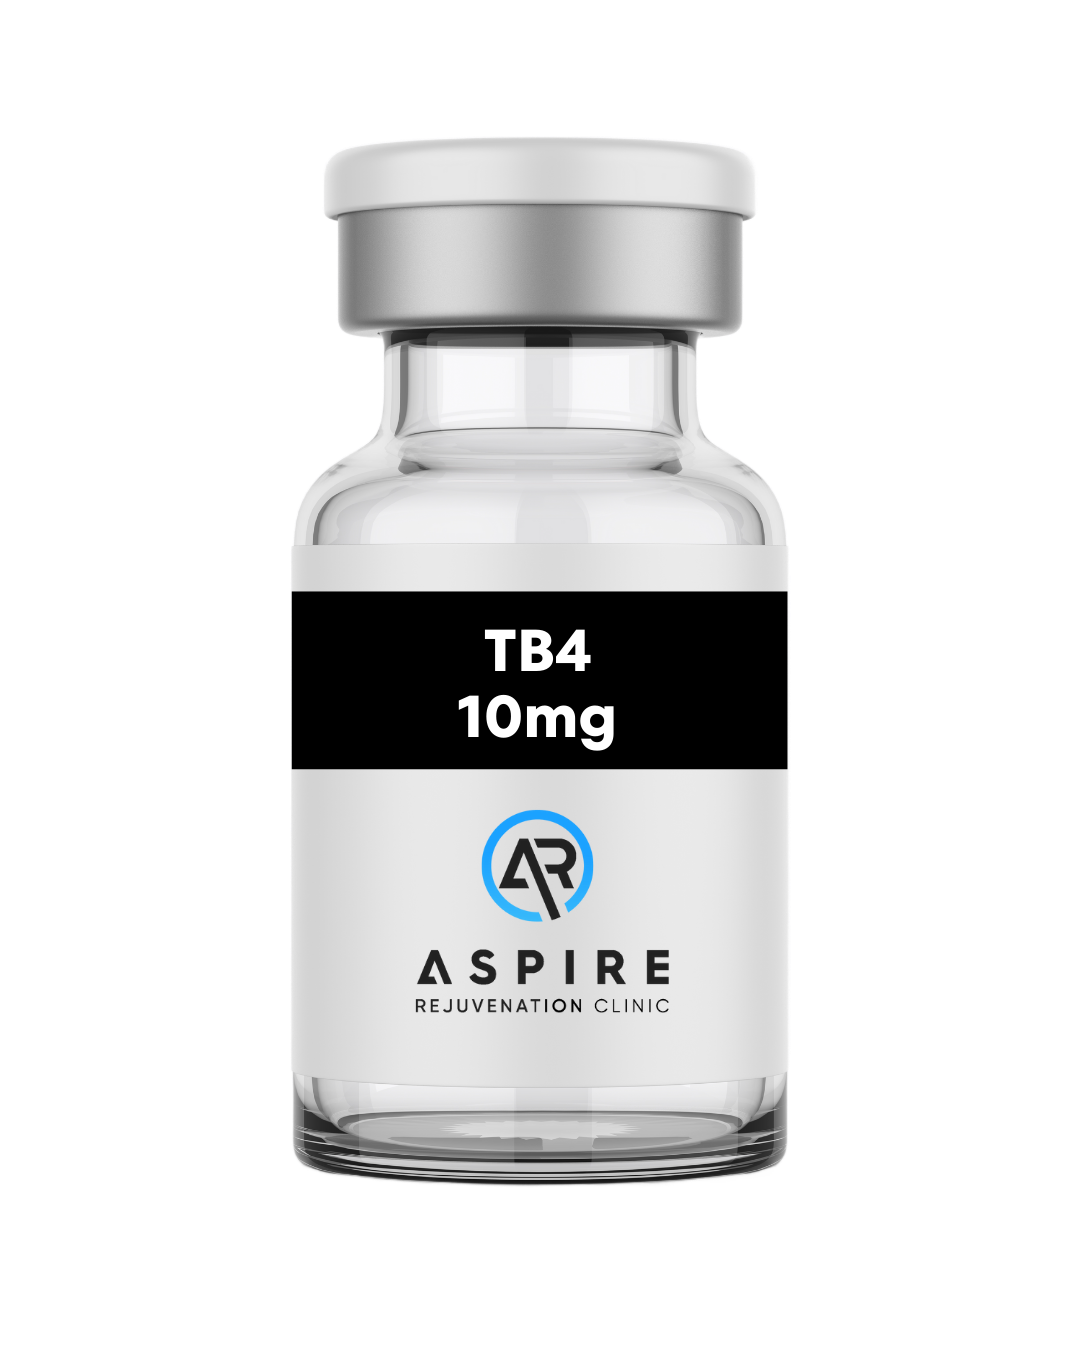
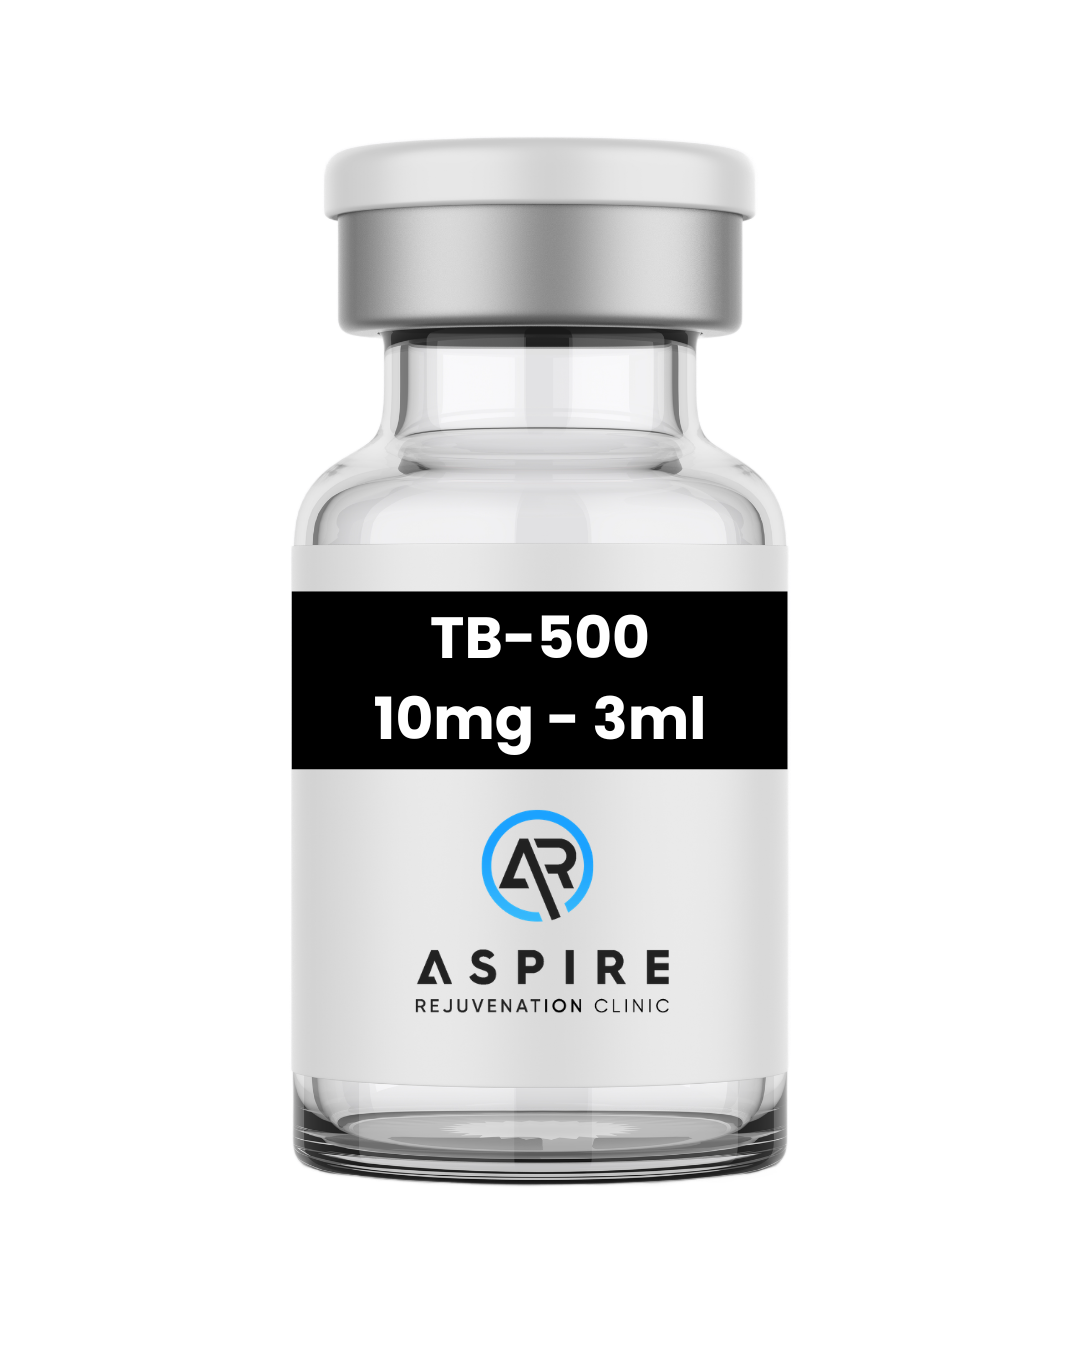
Add shop page with all 23 products and category filters
- page-shop.php template with compact hero and pill-style filter tabs
- 3-column product grid using image+glass card design
- All 23 product images copied from Aspire inventory
- JS category filter: All, Recovery, Cognitive, Anti-Aging,
  Body Comp, Blends, Performance
- Responsive: 2-col tablet, 1-col mobile

Changed region(s): [[0.3361, 0.4356, 0.6722, 0.56]]

diff --git a/assets/css/main.css b/assets/css/main.css
@@ -1090,6 +1090,76 @@ h4 { font-size: 18px; font-weight: 600; }
   opacity: 0.3;
 }
 
+/* --- Shop Page --- */
+.ab-shop-hero {
+  padding: 140px 0 60px;
+  background: var(--ab-dark);
+  position: relative;
+}
+
+.ab-shop-hero .ab-hero-heading {
+  margin-bottom: 16px;
+}
+
+.ab-shop-hero .ab-hero-sub {
+  max-width: 500px;
+}
+
+.ab-shop-section {
+  padding-top: 0;
+}
+
+.ab-filter-bar {
+  display: flex;
+  gap: 6px;
+  margin-bottom: 40px;
+  overflow-x: auto;
+  scrollbar-width: none;
+  -ms-overflow-style: none;
+  padding-bottom: 4px;
+}
+
+.ab-filter-bar::-webkit-scrollbar { display: none; }
+
+.ab-filter-tab {
+  font-family: 'Outfit', sans-serif;
+  font-size: 13px;
+  font-weight: 500;
+  padding: 8px 20px;
+  border-radius: 100px;
+  border: 1px solid var(--ab-ghost);
+  background: transparent;
+  color: rgba(255,255,255,0.5);
+  cursor: pointer;
+  transition: all 0.2s;
+  white-space: nowrap;
+}
+
+.ab-filter-tab:hover {
+  color: #fff;
+  border-color: rgba(255,255,255,0.15);
+}
+
+.ab-filter-tab.active {
+  background: var(--ab-teal);
+  border-color: var(--ab-teal);
+  color: #fff;
+}
+
+.ab-shop-grid {
+  display: grid;
+  grid-template-columns: repeat(3, 1fr);
+  gap: 20px;
+}
+
+.ab-shop-grid .ab-product-card {
+  transition: all 0.4s var(--ab-ease), opacity 0.3s, transform 0.3s;
+}
+
+.ab-shop-grid .ab-product-card.hidden {
+  display: none;
+}
+
 /* --- Responsive --- */
 @media (max-width: 1024px) {
   h1.ab-hero-heading { font-size: 64px; }
@@ -1101,6 +1171,7 @@ h4 { font-size: 18px; font-weight: 600; }
   .ab-footer-grid { grid-template-columns: 1fr 1fr; gap: 32px; }
   .ab-nav-links { display: none; }
   .ab-categories-grid { grid-template-columns: repeat(2, 1fr); }
+  .ab-shop-grid { grid-template-columns: repeat(2, 1fr); }
   .ab-section { padding: 80px 0; }
 }
 
@@ -1116,6 +1187,8 @@ h4 { font-size: 18px; font-weight: 600; }
   .ab-blog-grid { grid-template-columns: 1fr; }
   .ab-categories-grid { grid-template-columns: 1fr; }
   .ab-carousel-product { flex: 0 0 220px; }
+  .ab-shop-grid { grid-template-columns: 1fr; }
+  .ab-shop-hero { padding: 120px 0 40px; }
   .ab-cta-bar { flex-direction: column; text-align: center; gap: 24px; padding: 36px 28px; }
   .ab-footer-grid { grid-template-columns: 1fr; gap: 32px; }
   .ab-footer-bottom { flex-direction: column; gap: 8px; }

diff --git a/assets/js/site.js b/assets/js/site.js
@@ -190,3 +190,29 @@ const categoryProducts = {
     });
   });
 })();
+
+/* ======== Shop Page — Category Filter ======== */
+(function() {
+  const tabs = document.querySelectorAll('.ab-filter-tab');
+  const grid = document.getElementById('ab-shop-grid');
+  if (!tabs.length || !grid) return;
+
+  const cards = grid.querySelectorAll('.ab-product-card');
+
+  tabs.forEach(tab => {
+    tab.addEventListener('click', () => {
+      const filter = tab.dataset.filter;
+
+      tabs.forEach(t => t.classList.remove('active'));
+      tab.classList.add('active');
+
+      cards.forEach(card => {
+        if (filter === 'all' || card.dataset.cat === filter) {
+          card.classList.remove('hidden');
+        } else {
+          card.classList.add('hidden');
+        }
+      });
+    });
+  });
+})();

diff --git a/page-shop.php b/page-shop.php
@@ -1,0 +1,105 @@
+<?php
+/*
+ * Template Name: Shop
+ */
+get_header();
+
+$img = get_template_directory_uri() . '/assets/images/';
+
+$products = [
+  ['name' => 'GHK-cu',                   'desc' => '100mg - 3ml',                          'price' => '$200', 'img' => 'ghkcu.png',           'badge' => 'Best Seller', 'cat' => 'antiaging'],
+  ['name' => 'BPC-157',                   'desc' => '15mg - 3ml',                           'price' => '$250', 'img' => 'bpc157.png',          'badge' => 'Popular',     'cat' => 'recovery'],
+  ['name' => 'BPC-157/TB4',               'desc' => '10/10mg - 3ml',                        'price' => '$320', 'img' => 'bpc157-tb500.png',    'badge' => '',            'cat' => 'recovery'],
+  ['name' => 'GLOW',                      'desc' => 'BPC-157/GHK-cu/TB-500 — 10/70/10mg - 5ml', 'price' => '$390', 'img' => 'glow.png',       'badge' => 'Blend',       'cat' => 'blends'],
+  ['name' => 'Duo Blend',                 'desc' => 'Tesa/Ipa - 3ml',                       'price' => '$240', 'img' => 'duoblend.png',        'badge' => 'Popular',     'cat' => 'blends'],
+  ['name' => 'BPC-157/TB5/MGF/KPV',       'desc' => '5/2/1/2mg - 3ml',                     'price' => '$380', 'img' => 'bpc-tb5-mgf-kpv.png', 'badge' => 'Blend',       'cat' => 'blends'],
+  ['name' => 'Mots-C',                    'desc' => '50mg - 5ml',                           'price' => '$340', 'img' => 'motsc.png',           'badge' => '',            'cat' => 'performance'],
+  ['name' => 'Dihexa',                    'desc' => '10mg - 30 Tablets',                    'price' => '$290', 'img' => 'dihexa.png',          'badge' => '',            'cat' => 'cognitive'],
+  ['name' => 'AOD 9604',                  'desc' => '5mg - 3ml',                            'price' => '$220', 'img' => 'aod9604.png',         'badge' => '',            'cat' => 'bodycomp'],
+  ['name' => 'Triple G (Reta)',           'desc' => '15mg - 3ml',                           'price' => '$680', 'img' => 'tripleg.png',         'badge' => 'Premium',     'cat' => 'bodycomp'],
+  ['name' => 'Ibutamoren (MK-677)',       'desc' => '25mg - 30 Tablets',                    'price' => '$310', 'img' => 'ibutamoren.png',      'badge' => '',            'cat' => 'bodycomp'],
+  ['name' => 'Selank',                    'desc' => '11mg - 3ml',                           'price' => '$160', 'img' => 'selank.png',          'badge' => '',            'cat' => 'cognitive'],
+  ['name' => 'Semax',                     'desc' => '11mg - 3ml',                           'price' => '$120', 'img' => 'semax.png',           'badge' => '',            'cat' => 'cognitive'],
+  ['name' => 'DSIP',                      'desc' => '5mg - 3ml',                            'price' => '$260', 'img' => 'dsip.png',            'badge' => '',            'cat' => 'cognitive'],
+  ['name' => 'TB-500',                    'desc' => '10mg - 3ml',                           'price' => '$250', 'img' => 'tb500.png',           'badge' => '',            'cat' => 'recovery'],
+  ['name' => 'NAD+',                      'desc' => '1000mg - 10ml',                        'price' => '$200', 'img' => 'nad.png',             'badge' => '',            'cat' => 'antiaging'],
+  ['name' => 'Epithalon',                 'desc' => '50mg - 3ml',                           'price' => '$220', 'img' => 'epithalon.png',       'badge' => '',            'cat' => 'antiaging'],
+  ['name' => 'SS-31',                     'desc' => '10mg - 3ml',                           'price' => '$190', 'img' => 'ss31.png',            'badge' => '',            'cat' => 'antiaging'],
+  ['name' => 'Thymosin Alpha 1',          'desc' => '10mg - 3ml',                           'price' => '$270', 'img' => 'thymosin-alpha1.png', 'badge' => '',            'cat' => 'antiaging'],
+  ['name' => 'NAD+/BDNF/Alpha GPC',      'desc' => '100/10/100mg - 3ml',                   'price' => '$440', 'img' => 'nad-bdnf-agpc.png',   'badge' => 'Blend',       'cat' => 'antiaging'],
+  ['name' => 'SLU-PP-332',               'desc' => '0.25mg - 60 Tablets',                  'price' => '$300', 'img' => 'slupp332.png',        'badge' => '',            'cat' => 'bodycomp'],
+  ['name' => 'IGF-1/LR3',                'desc' => '1mg - 3ml',                            'price' => '$550', 'img' => 'igf1lr3.png',         'badge' => '',            'cat' => 'performance'],
+  ['name' => 'Follistatin 344',           'desc' => '1mg - 3ml',                            'price' => '$650', 'img' => 'follistatin344.png',  'badge' => '',            'cat' => 'performance'],
+];
+
+$categories = [
+  'all'         => 'All Compounds',
+  'recovery'    => 'Recovery & Healing',
+  'cognitive'   => 'Cognitive & Neuro',
+  'antiaging'   => 'Anti-Aging',
+  'bodycomp'    => 'Body Composition',
+  'blends'      => 'Blends & Stacks',
+  'performance' => 'Performance',
+];
+?>
+
+  <!-- ======== SHOP HERO ======== -->
+  <section class="ab-shop-hero">
+    <div class="ab-container">
+      <p class="ab-label ab-label-decorated">Our Catalog</p>
+      <h1 class="ab-hero-heading">
+        <span class="ab-heading-light">Research</span>
+        <span class="ab-heading-bold ab-gradient-text">Compounds.</span>
+      </h1>
+      <p class="ab-hero-sub">Browse our full catalog of 20+ peptide compounds. All products sourced from trusted U.S. suppliers.</p>
+    </div>
+  </section>
+
+  <!-- ======== FILTER TABS ======== -->
+  <section class="ab-section ab-section-surface ab-shop-section">
+    <div class="ab-container">
+
+      <div class="ab-filter-bar">
+        <?php foreach ($categories as $key => $label) : ?>
+          <button class="ab-filter-tab<?php echo $key === 'all' ? ' active' : ''; ?>" data-filter="<?php echo esc_attr($key); ?>">
+            <?php echo esc_html($label); ?>
+          </button>
+        <?php endforeach; ?>
+      </div>
+
+      <!-- ======== PRODUCT GRID ======== -->
+      <div class="ab-shop-grid" id="ab-shop-grid">
+        <?php foreach ($products as $p) : ?>
+          <div class="ab-product-card" data-cat="<?php echo esc_attr($p['cat']); ?>">
+            <div class="ab-product-img">
+              <img src="<?php echo esc_url($img . $p['img']); ?>" alt="<?php echo esc_attr($p['name']); ?>">
+              <?php if (!empty($p['badge'])) : ?>
+                <span class="ab-product-badge"><?php echo esc_html($p['badge']); ?></span>
+              <?php endif; ?>
+            </div>
+            <div class="ab-product-glass">
+              <div class="ab-product-name"><?php echo esc_html($p['name']); ?></div>
+              <div class="ab-product-desc"><?php echo esc_html($p['desc']); ?></div>
+              <div class="ab-product-price"><?php echo esc_html($p['price']); ?></div>
+            </div>
+          </div>
+        <?php endforeach; ?>
+      </div>
+
+    </div>
+  </section>
+
+  <!-- ======== CTA ======== -->
+  <section class="ab-section ab-section-dark ab-section-cta">
+    <div class="ab-container">
+      <div class="ab-cta-bar ab-reveal">
+        <div>
+          <h3>Ready to Get Started?</h3>
+          <p>Complete the waiver and access our full catalog of research-grade compounds.</p>
+        </div>
+        <a href="#" class="ab-btn">Start Waiver</a>
+      </div>
+    </div>
+  </section>
+
+<?php get_footer(); ?>